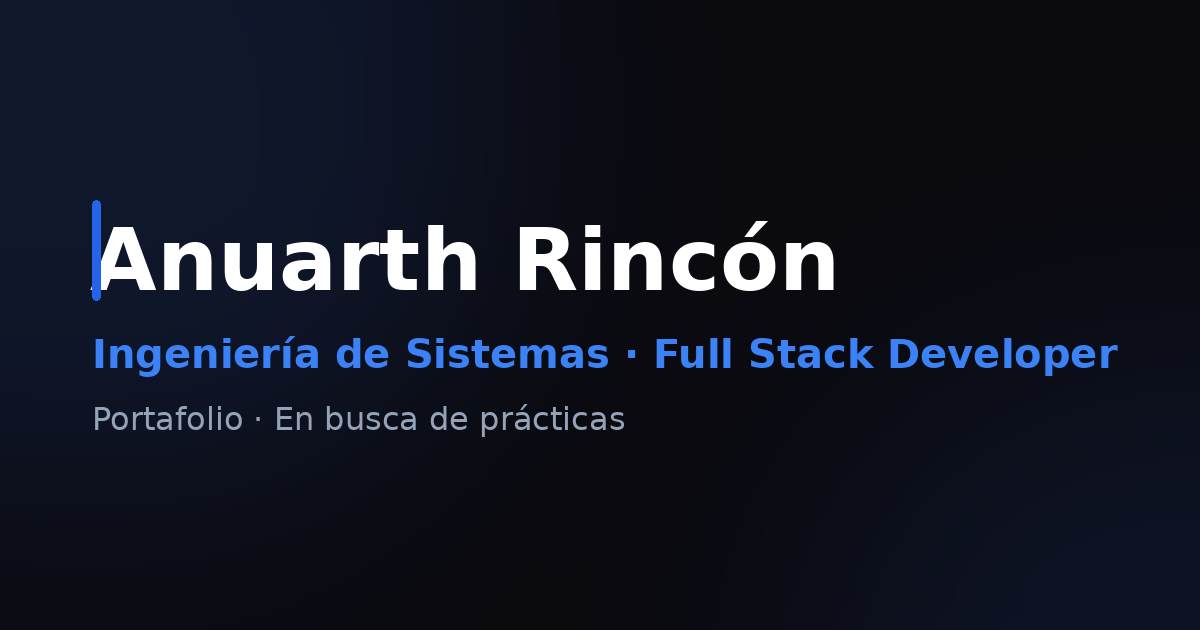
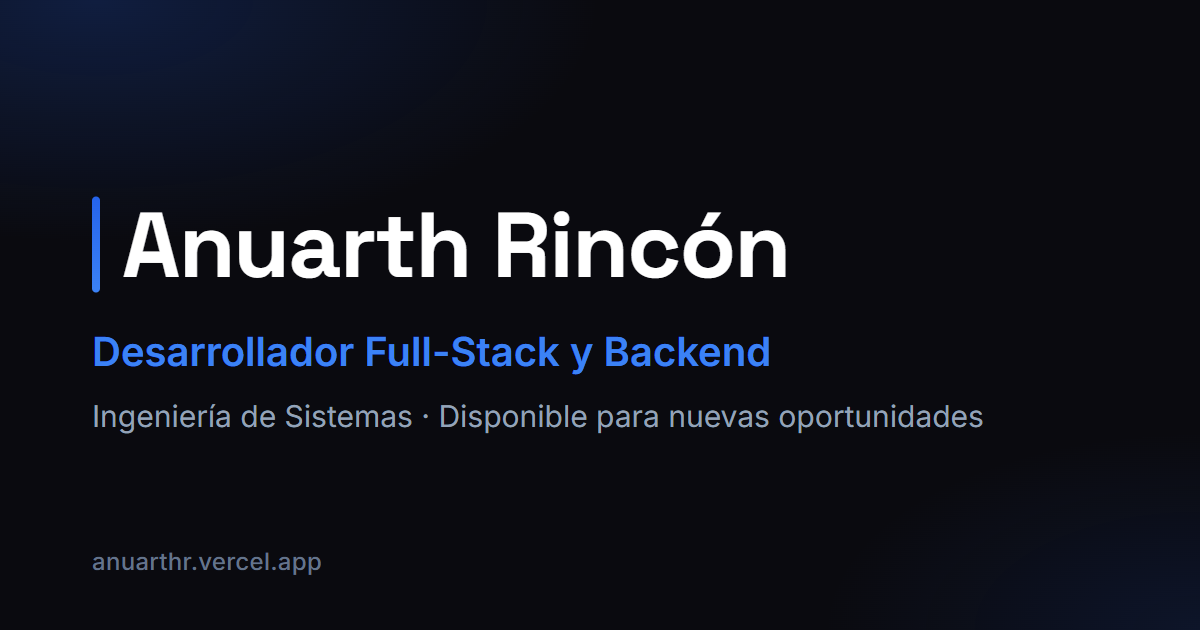
Fix share preview: og:url, titles, descriptions and image
Point og:url and canonical to https://anuarthr.vercel.app, use absolute image URLs with size and alt metadata, and update the title and descriptions to the CV profile. Redraw og-image.png without the internship line.

Changed region(s): [[0.0, 0.3317, 0.925, 0.6032], [0.0617, 0.6333, 0.8325, 0.6937], [0.0617, 0.8746, 0.2775, 0.9048]]

diff --git a/index.html b/index.html
@@ -6,32 +6,47 @@
     <meta name="viewport" content="width=device-width, initial-scale=1.0" />
 
     <!-- SEO básico -->
-    <title>Anuarth Rincón · Ingeniería de Sistemas | Portafolio</title>
+    <title>Anuarth Rincón · Desarrollador Full-Stack y Backend</title>
     <meta
       name="description"
-      content="Portafolio de Anuarth Rincón, estudiante de Ingeniería de Sistemas y Full Stack Developer en busca de prácticas. React, Node.js, AWS y más."
+      content="Portafolio de Anuarth Rincón, estudiante de Ingeniería de Sistemas y desarrollador full-stack y backend con experiencia en producción: NestJS, TypeScript, React, Python y pruebas automatizadas."
     />
     <meta name="author" content="Anuarth Rincón" />
     <meta name="theme-color" content="#0a0a0f" />
+    <link rel="canonical" href="https://anuarthr.vercel.app" />
 
     <!-- Open Graph -->
     <meta property="og:type" content="website" />
-    <meta property="og:title" content="Anuarth Rincón · Portafolio" />
+    <meta property="og:site_name" content="Anuarth Rincón" />
+    <meta property="og:locale" content="es_CO" />
+    <meta property="og:locale:alternate" content="en_US" />
+    <meta property="og:title" content="Anuarth Rincón · Desarrollador Full-Stack y Backend" />
     <meta
       property="og:description"
-      content="Estudiante de Ingeniería de Sistemas y Full Stack Developer en busca de prácticas laborales."
+      content="Estudiante de Ingeniería de Sistemas y desarrollador full-stack con experiencia en producción. Disponible para nuevas oportunidades."
     />
-    <meta property="og:image" content="/og-image.png" />
-    <meta property="og:url" content="https://portafolio.vercel.app" />
+    <meta property="og:url" content="https://anuarthr.vercel.app" />
+    <meta property="og:image" content="https://anuarthr.vercel.app/og-image.png" />
+    <meta property="og:image:type" content="image/png" />
+    <meta property="og:image:width" content="1200" />
+    <meta property="og:image:height" content="630" />
+    <meta
+      property="og:image:alt"
+      content="Anuarth Rincón, Desarrollador Full-Stack y Backend. Ingeniería de Sistemas, disponible para nuevas oportunidades."
+    />
 
     <!-- Twitter -->
     <meta name="twitter:card" content="summary_large_image" />
-    <meta name="twitter:title" content="Anuarth Rincón · Portafolio" />
+    <meta name="twitter:title" content="Anuarth Rincón · Desarrollador Full-Stack y Backend" />
     <meta
       name="twitter:description"
-      content="Estudiante de Ingeniería de Sistemas y Full Stack Developer en busca de prácticas."
+      content="Estudiante de Ingeniería de Sistemas y desarrollador full-stack con experiencia en producción. Disponible para nuevas oportunidades."
     />
-    <meta name="twitter:image" content="/og-image.png" />
+    <meta name="twitter:image" content="https://anuarthr.vercel.app/og-image.png" />
+    <meta
+      name="twitter:image:alt"
+      content="Anuarth Rincón, Desarrollador Full-Stack y Backend. Ingeniería de Sistemas, disponible para nuevas oportunidades."
+    />
 
     <!-- Fuentes: Inter (cuerpo) + Space Grotesk (títulos) -->
     <link rel="preconnect" href="https://fonts.googleapis.com" />
